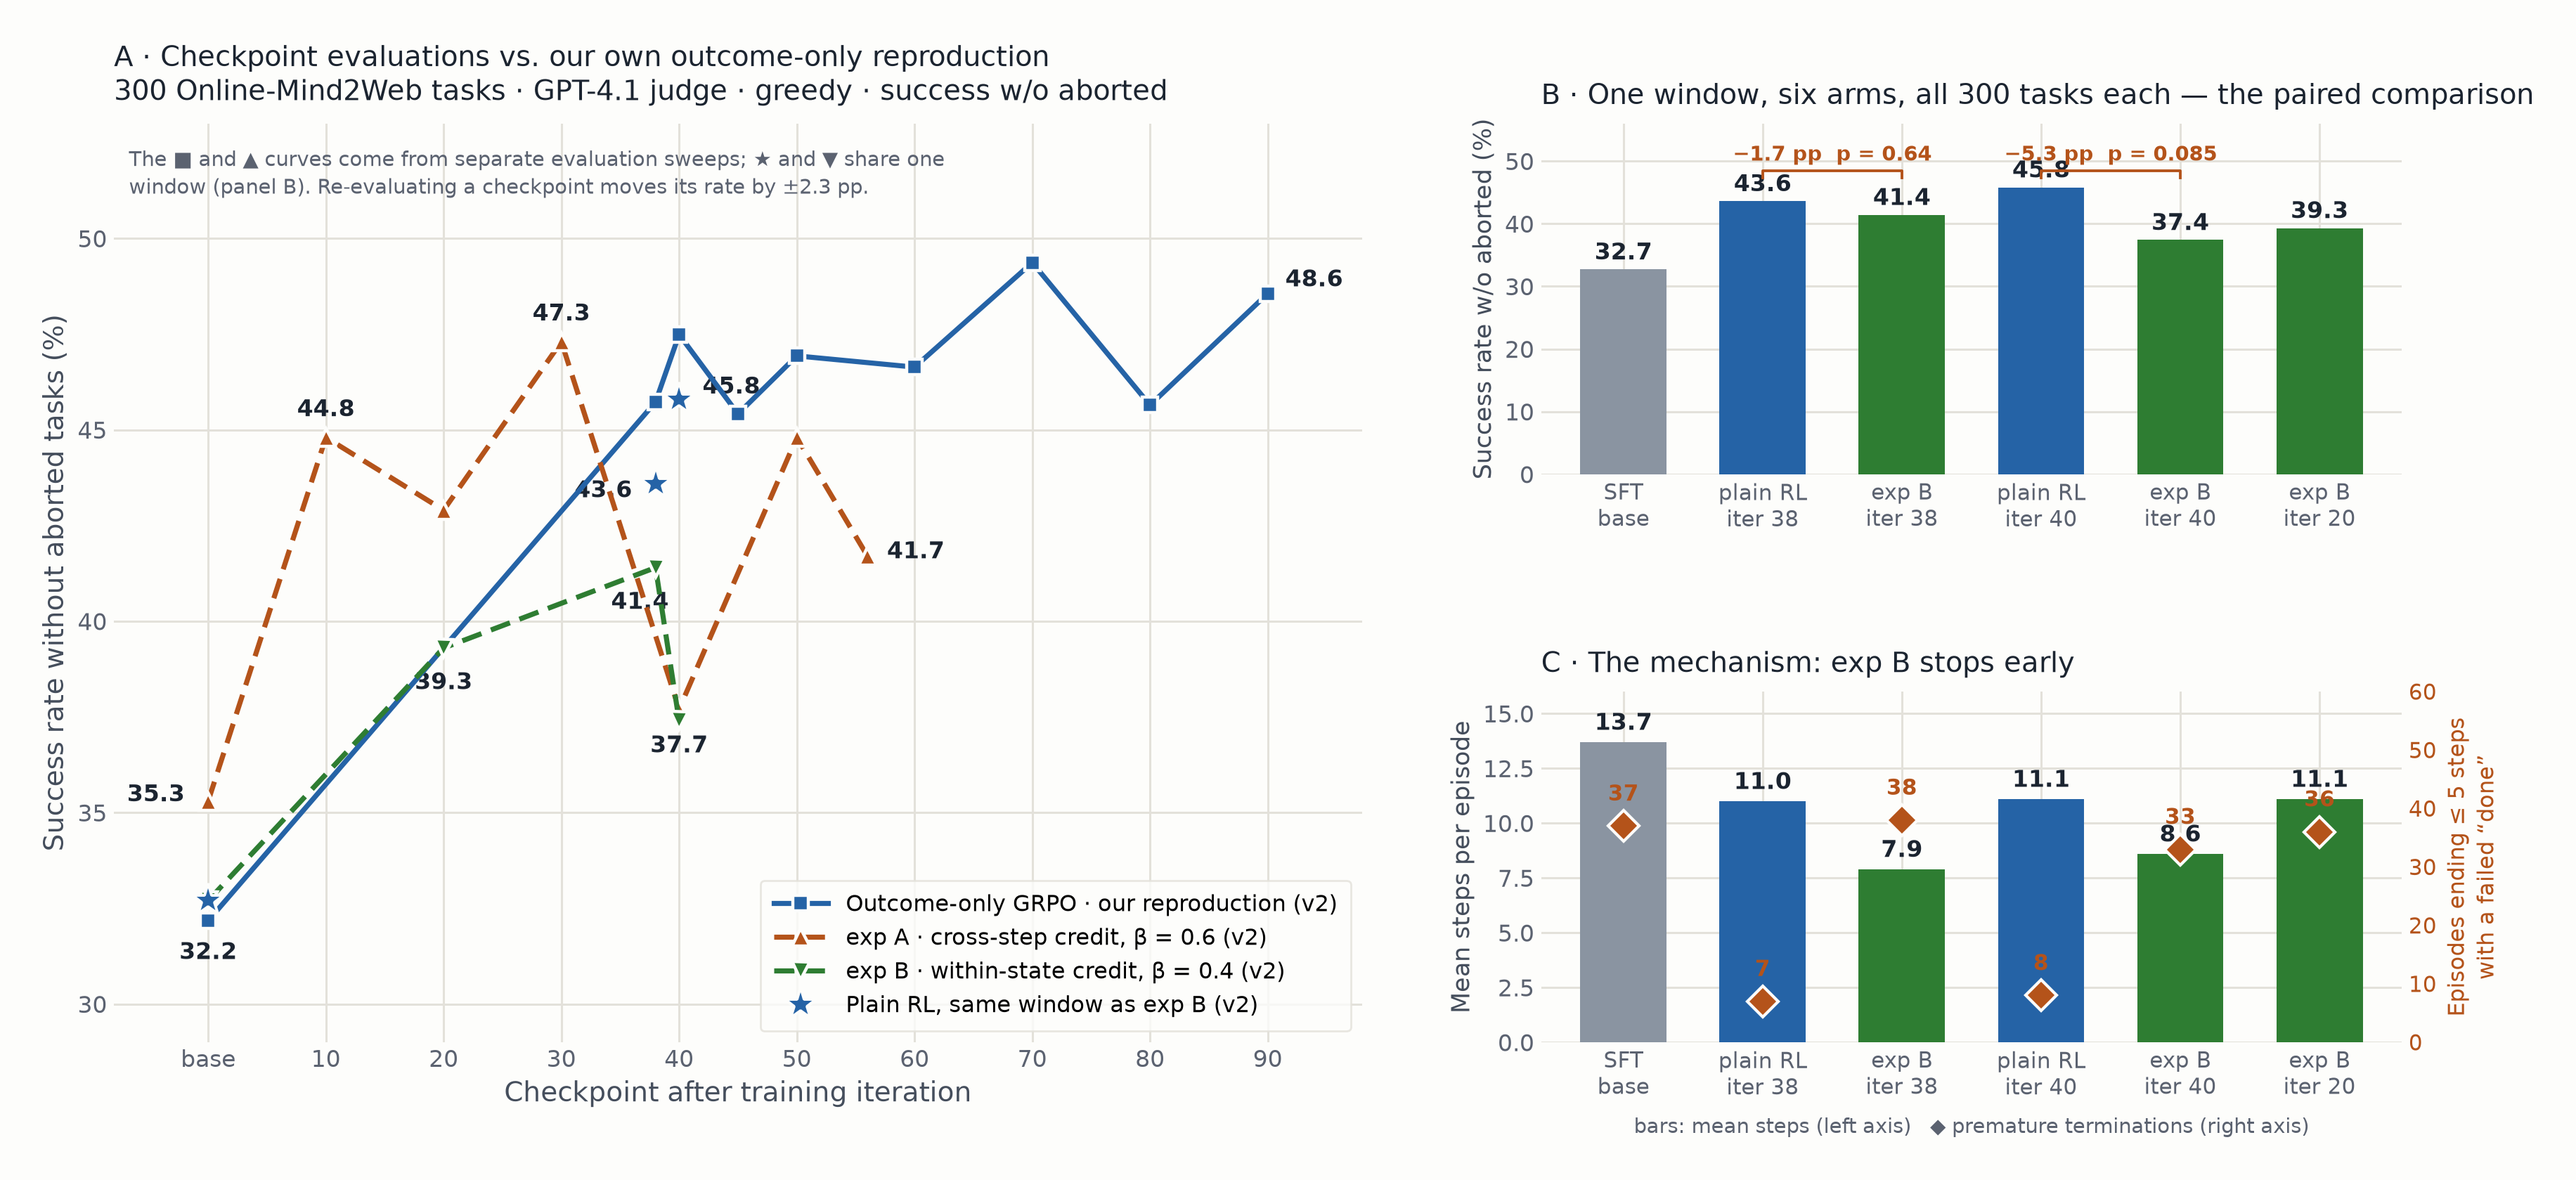
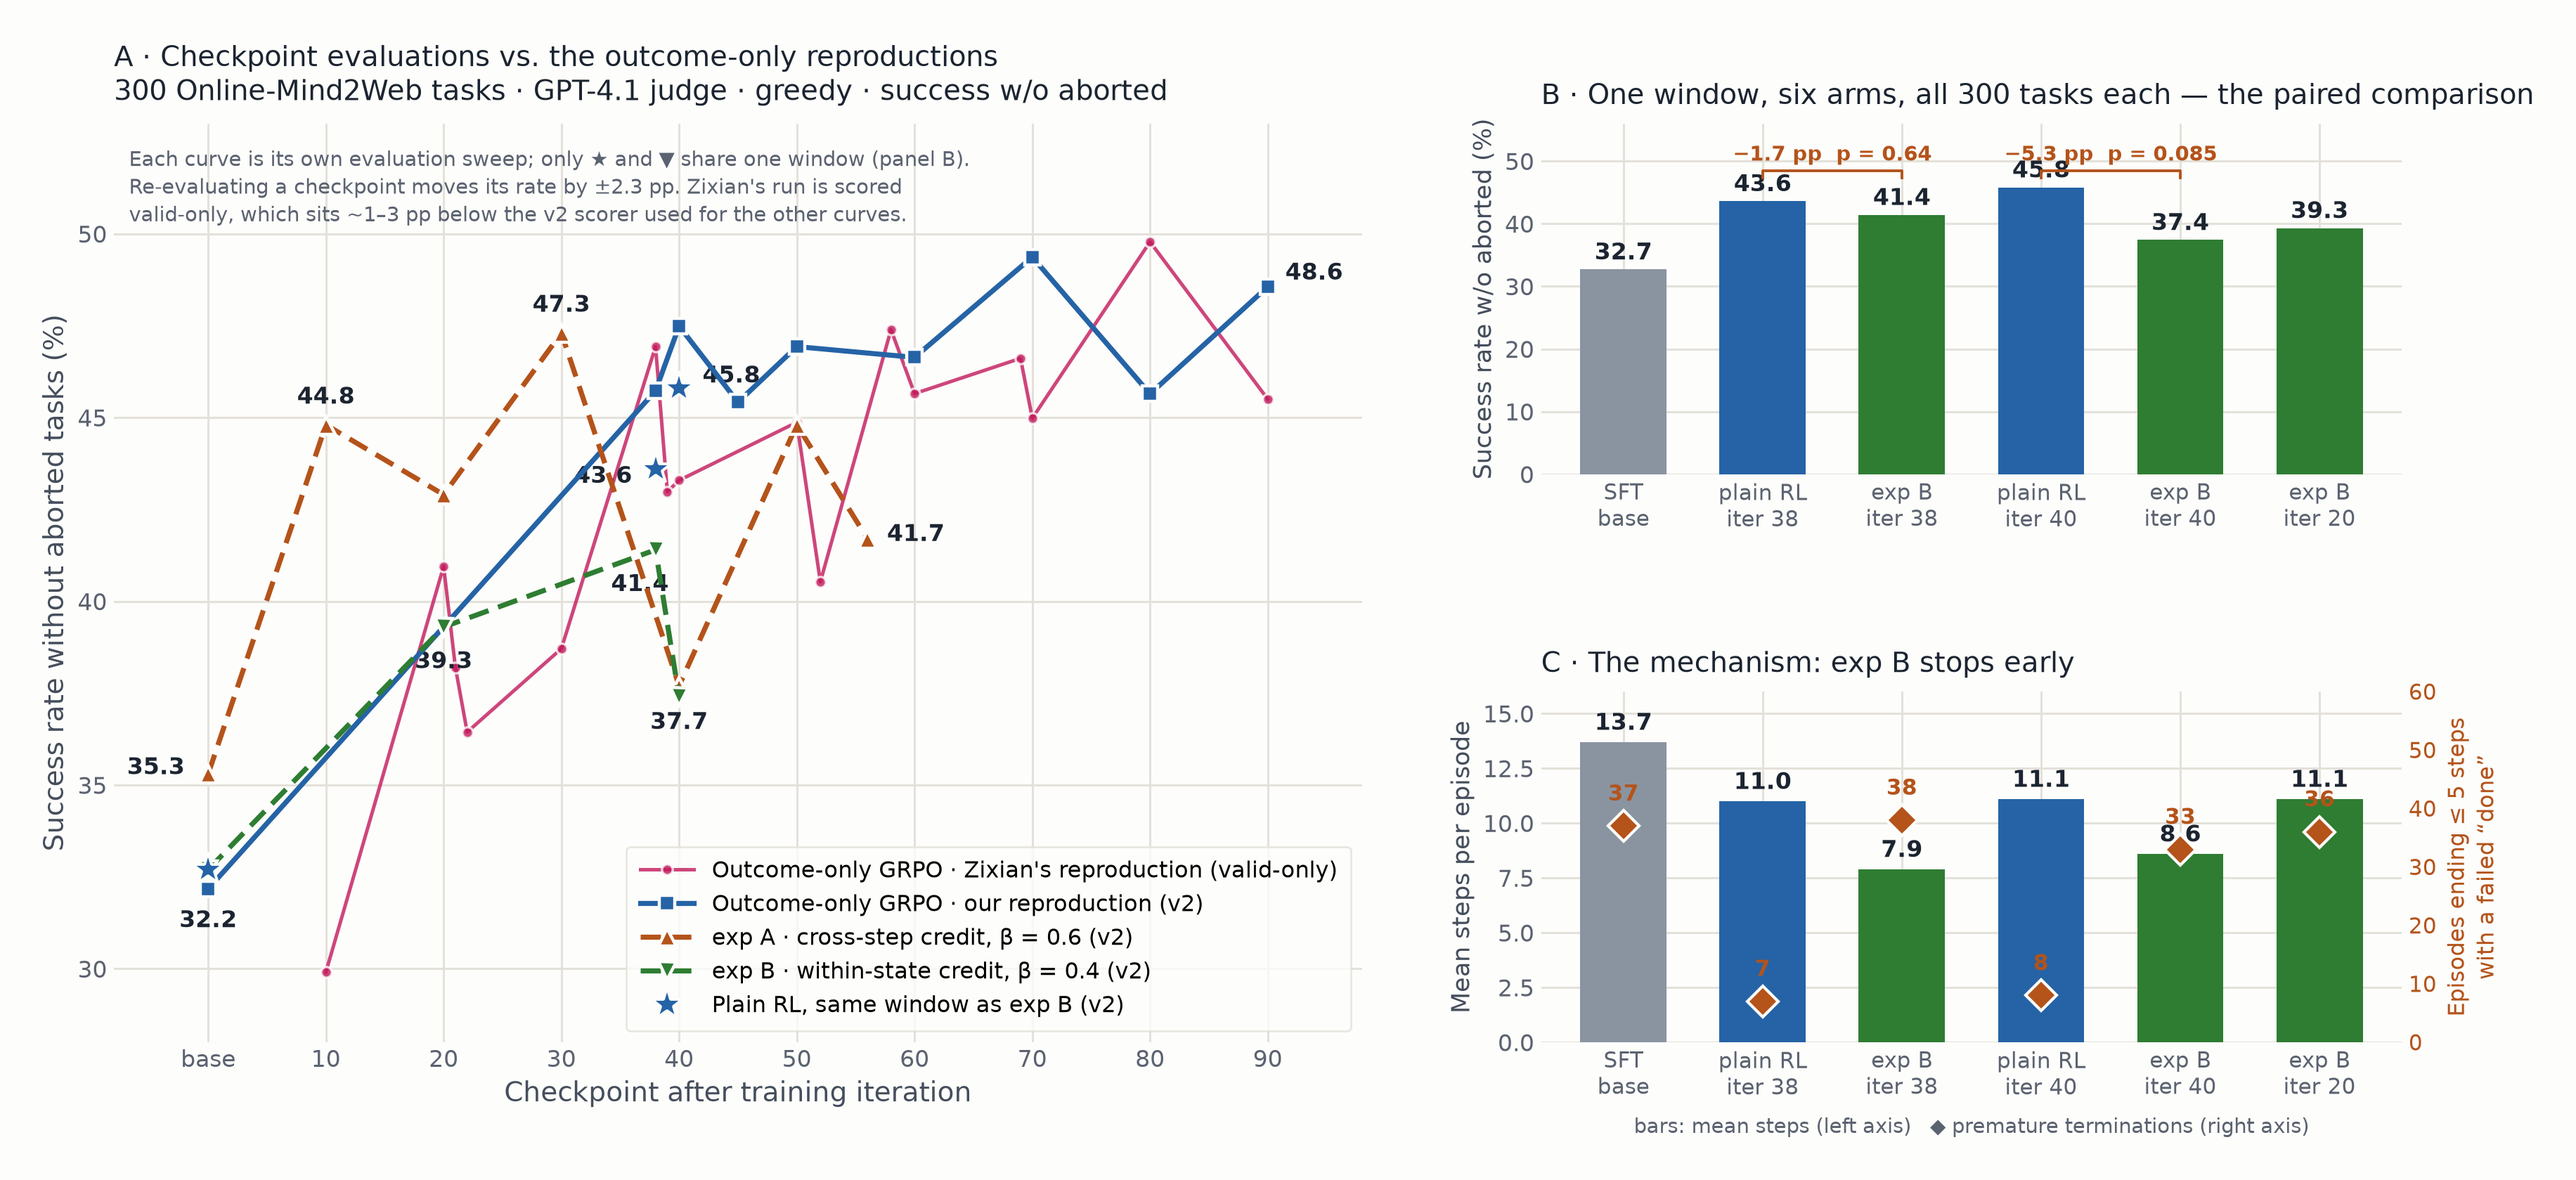
docs: put Zixian's reproduction back on the evaluation figure
Panel A now carries both outcome-only baselines (ours, v2; Zixian's,
valid-only) alongside the two credit runs, with the scorer difference
noted in the caption.

Claude-Session: https://claude.ai/code/session_018HoHQxa3NXg4AmQKuJF2x1

diff --git a/openwebrl/docs/CREDIT_ASSIGNMENT_SUMMARY.md b/openwebrl/docs/CREDIT_ASSIGNMENT_SUMMARY.md
@@ -9,10 +9,10 @@ inference-time selector results that these experiments build on are summarized f
 
 ![Evaluation summary](assets/credit_eval_summary.png)
 
-**Figure.** (A) Every checkpoint evaluation we have, against our own outcome-only reproduction:
-neither credit form tracks the baseline once past iteration 20. Curves from different sweeps are
-not directly comparable — the ★/▼ points at iterations 38 and 40 are, because they share one
-evaluation window. (B) That window: six arms, 300 tasks each, paired McNemar. exp B is −1.7 pp and
+**Figure.** (A) Every checkpoint evaluation we have, against the two outcome-only reproductions
+(ours, v2; Zixian's, valid-only): neither credit form tracks the baselines once past iteration 20.
+Curves from different sweeps are not directly comparable — the ★/▼ points at iterations 38 and 40
+are, because they share one evaluation window. (B) That window: six arms, 300 tasks each, paired McNemar. exp B is −1.7 pp and
 −5.3 pp against the matched plain-RL checkpoints. (C) Why: exp B ends its episodes 3 turns earlier
 and declares `done` prematurely about as often as the untrained SFT model, while plain RL learned
 not to.
